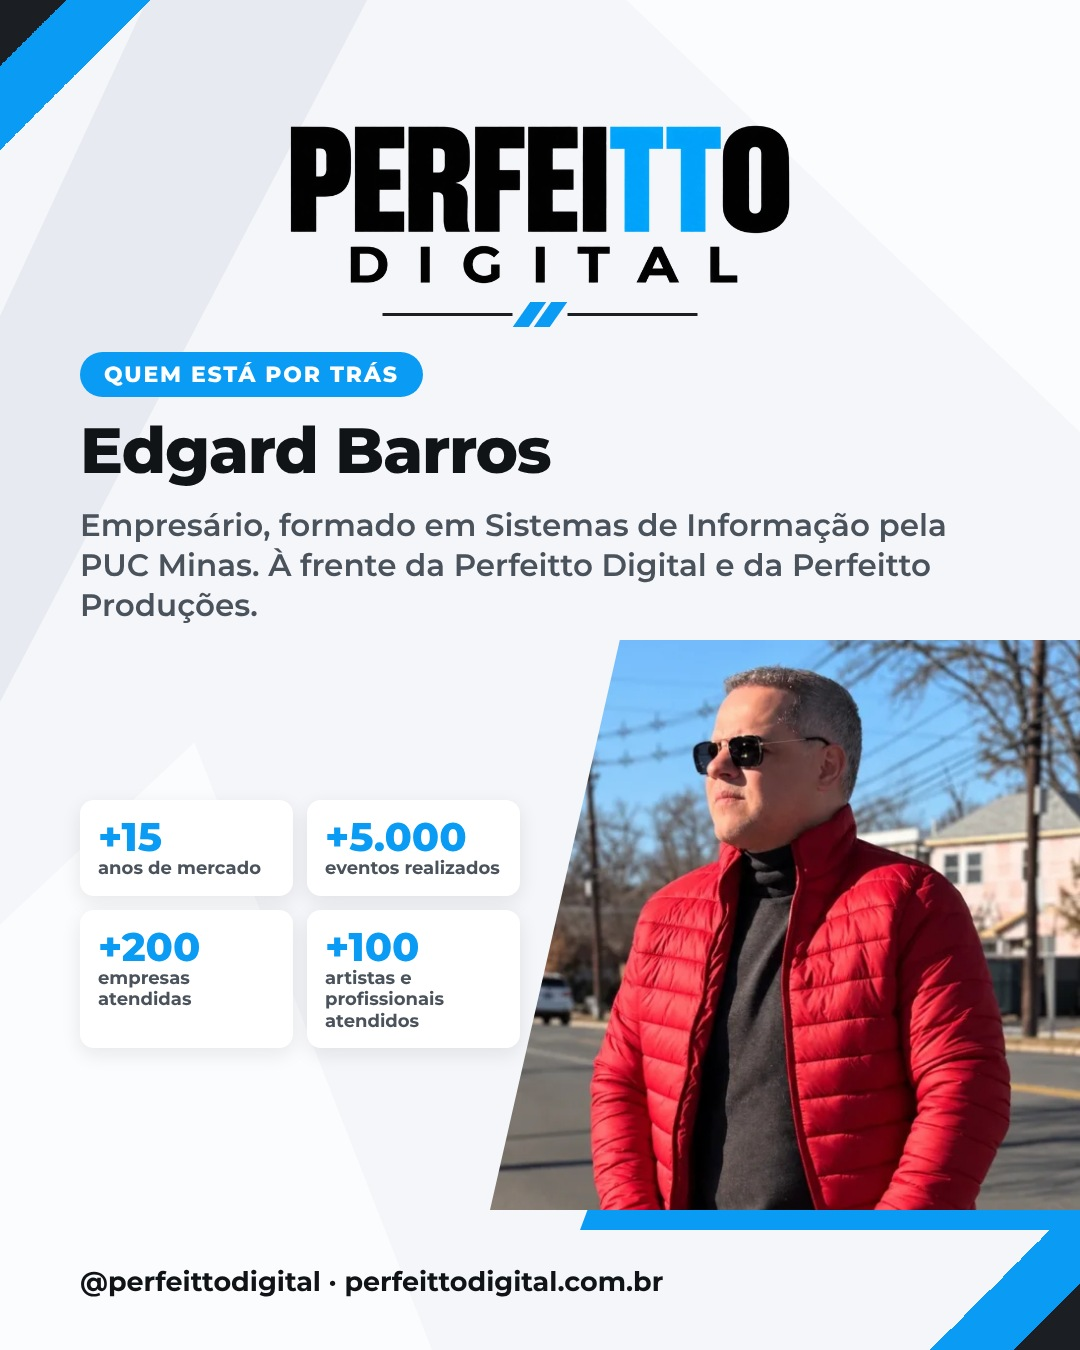
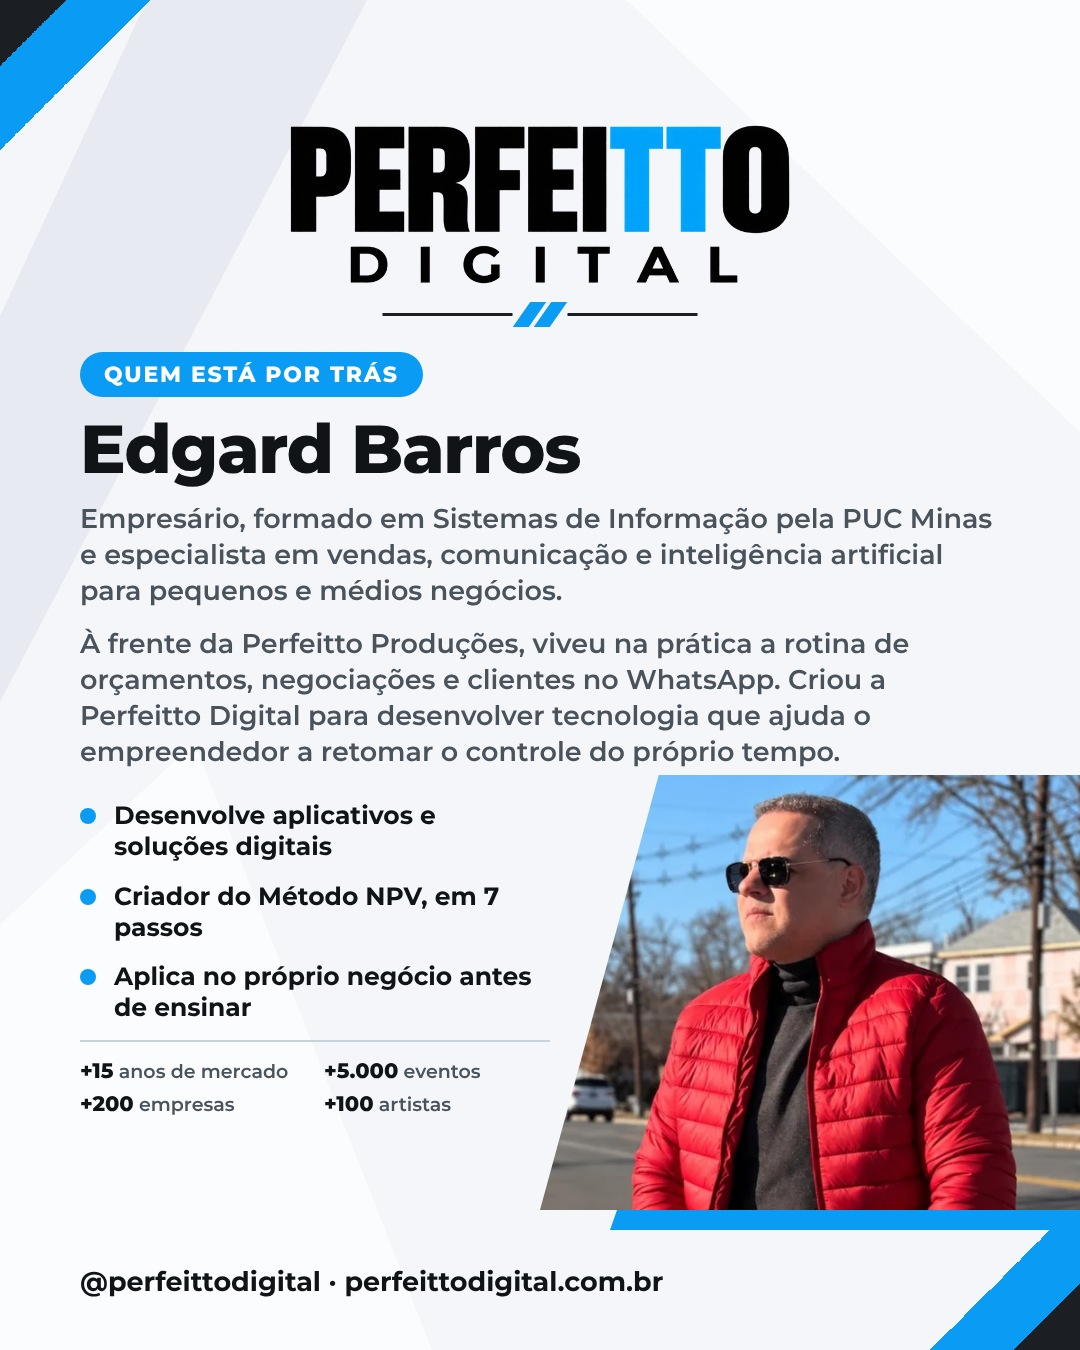
Post do Edgard: mais texto de autoridade, numeros discretos
Claude-Session: https://claude.ai/code/session_01T1Ti8ZtEU4qERFUHFc7H9r

Changed region(s): [[0.0611, 0.3111, 1.0, 0.9333]]

diff --git a/sw.js b/sw.js
@@ -1,4 +1,4 @@
-var C='pdleads-v8',BASE=['assets/style.css?v=8','assets/slides.css?v=8','assets/app.js?v=8','assets/logo-preta.png','assets/icone-192.png','assets/qr-whatsapp.svg','img/equipe.jpg','assets/montserrat-latin-500-normal.woff2','assets/montserrat-latin-600-normal.woff2','assets/montserrat-latin-700-normal.woff2','assets/montserrat-latin-800-normal.woff2'];
+var C='pdleads-v9',BASE=['assets/style.css?v=9','assets/slides.css?v=9','assets/app.js?v=9','assets/logo-preta.png','assets/icone-192.png','assets/qr-whatsapp.svg','img/equipe.jpg','assets/montserrat-latin-500-normal.woff2','assets/montserrat-latin-600-normal.woff2','assets/montserrat-latin-700-normal.woff2','assets/montserrat-latin-800-normal.woff2'];
 self.addEventListener('install',function(e){e.waitUntil(caches.open(C).then(function(c){return c.addAll(BASE)}).then(function(){return self.skipWaiting()}))});
 self.addEventListener('activate',function(e){e.waitUntil(caches.keys().then(function(k){return Promise.all(k.filter(function(x){return x!==C}).map(function(x){return caches.delete(x)}))}).then(function(){return self.clients.claim()}))});
 self.addEventListener('fetch',function(e){var r=e.request;if(r.method!=='GET')return;var u=new URL(r.url);if(u.origin!==location.origin)return;

diff --git a/lib.php b/lib.php
@@ -5,7 +5,7 @@ mb_internal_encoding('UTF-8');
 date_default_timezone_set('America/Sao_Paulo');
 define('DADOS', dirname(__DIR__) . '/dados-leads');
 define('EVENTO', 'Vetor Norte Summit');
-define('V', '8');
+define('V', '9');
 if (!is_dir(DADOS)) { @mkdir(DADOS, 0750, true); @file_put_contents(DADOS . '/.htaccess', "Require all denied\n"); }
 if (!is_dir(DADOS . '/sessoes')) @mkdir(DADOS . '/sessoes', 0750, true);
 $https = (!empty($_SERVER['HTTPS']) && $_SERVER['HTTPS'] !== 'off') || ($_SERVER['HTTP_X_FORWARDED_PROTO'] ?? '') === 'https';
